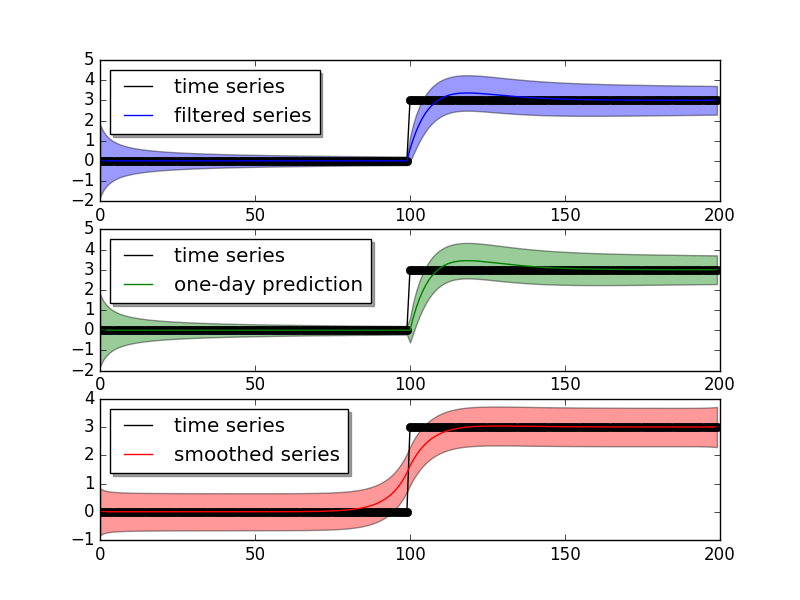
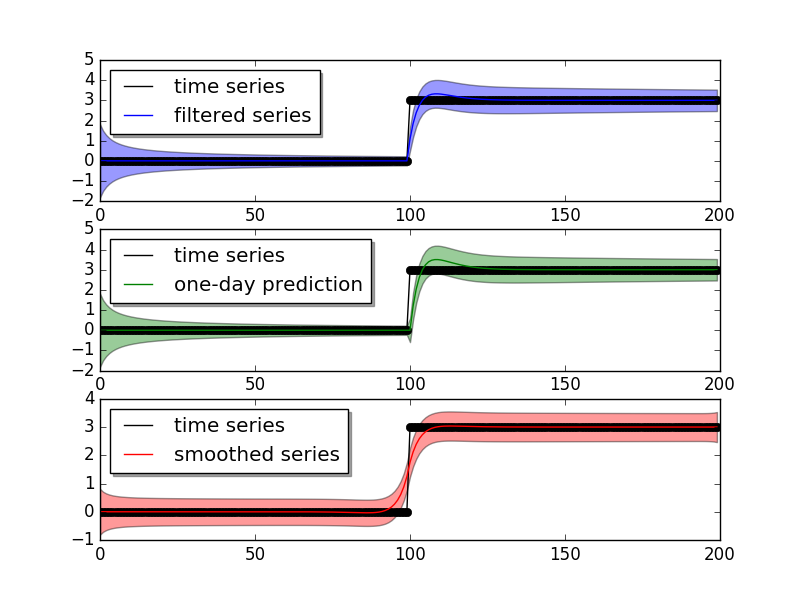
update images and docs

diff --git a/doc/source/example.rst b/doc/source/example.rst
@@ -18,15 +18,16 @@ model::
 
   >>> from pydlm import dlm, trend, dynamic
   >>> mydlm = dlm(y)
-  >>> mydlm = mydlm + trend(degree=1, discount=0.98, name='a')
-  >>> mydlm = mydlm + dynamic(features=[[v] for v in x], discount=1, name='b')
+  >>> mydlm = mydlm + trend(degree=1, discount=0.98, name='a', w=10.0)
+  >>> mydlm = mydlm + dynamic(features=[[v] for v in x], discount=1, name='b', w=10.0)
 
 In the model, we add two components :class:`trend` and
 :class:`dynamic`. The trend `a` is one of the systematical components
 that can be used to characterize the intrisic property of a time
 series, and trend is particularly suitable for our case. It has a
 discount factor of 0.98 as we believe the baseline can gradually shift
-overtime. The dynamic component `b` is modeling the regression
+overtime and we specify a prior covariance with 10.0 on the
+diagonal. The dynamic component `b` is modeling the regression
 component. We specify its discounting factor to be 1.0 since we
 believe `b` should be a constant. The :class:`dynamic` class only accepts 2-d
 list for feature arugment (since the control variable could be
@@ -38,7 +39,7 @@ believe these two processes `a` and `b` evolve independently and set
 
 This can also be set to 'dependent' if the computation efficiency is a
 concern. The default prior on the covariance of each component is a
-diagonal matrix with 1e7 on the diagonal, this can be changed when
+diagonal matrix with 1e7 on the diagonal, we changed this value in
 building the component (more details please refer to the user manual).
 The prior on the observational noise (default to 1.0) can be set by::
 

diff --git a/doc/source/index.rst b/doc/source/index.rst
@@ -19,9 +19,9 @@ Complex models can be constructed via simple operations::
   >>> myDLM = dlm(data)
   >>>
   >>> #adding model components
-  >>> myDLM = myDLM + trend(2, name='lineTrend') # add a second-order trend (linear trending)
-  >>> myDLM = myDLM + seasonality(7, name='7day') # add a 7 day seasonality
-  >>> myDLM = myDLM + autoReg(degree=3, data=data, name='ar3') # add a 3 step auto regression
+  >>> myDLM = myDLM + trend(2, name='lineTrend', w=1.0) # add a second-order trend (linear trending) with prior covariance 1.0
+  >>> myDLM = myDLM + seasonality(7, name='7day', w=1.0) # add a 7 day seasonality with prior covariance 1.0
+  >>> myDLM = myDLM + autoReg(degree=3, data=data, name='ar3', w=1.0) # add a 3 step auto regression
   >>>
   >>> #show the added components
   >>> myDLM.ls()
@@ -95,18 +95,18 @@ reconstruct the model and refit::
 `pydlm` supports missing observations::
 
   >>> data = [1, 0, 0, 1, 0, 0, None, 0, 1, None, None, 0, 0]
-  >>> myDLM = dlm(data) + trend(2)
+  >>> myDLM = dlm(data) + trend(2, w=1.0)
   >>> myDLM.fit() #fit() will fit both forward filter and backward smoother
 
 It also includes the discounting factor, which can be used to control how rapidly the model should adapt to the new data::
 
   >>> data = [0] * 100 + [3] * 100
-  >>> myDLM = dlm(data) + trend(2, discount = 1.0)
+  >>> myDLM = dlm(data) + trend(2, discount=1.0, w=1.0)
   >>> myDLM.fit()
   >>> myDLM.plot()
   >>>
   >>> myDLM.delete('trend')
-  >>> myDLM = myDLM + trend(2, discount = 0.9)
+  >>> myDLM = myDLM + trend(2, discount=0.8, w=1.0)
   >>> myDLM.fit()
   >>> myDLM.plot()
   >>>
